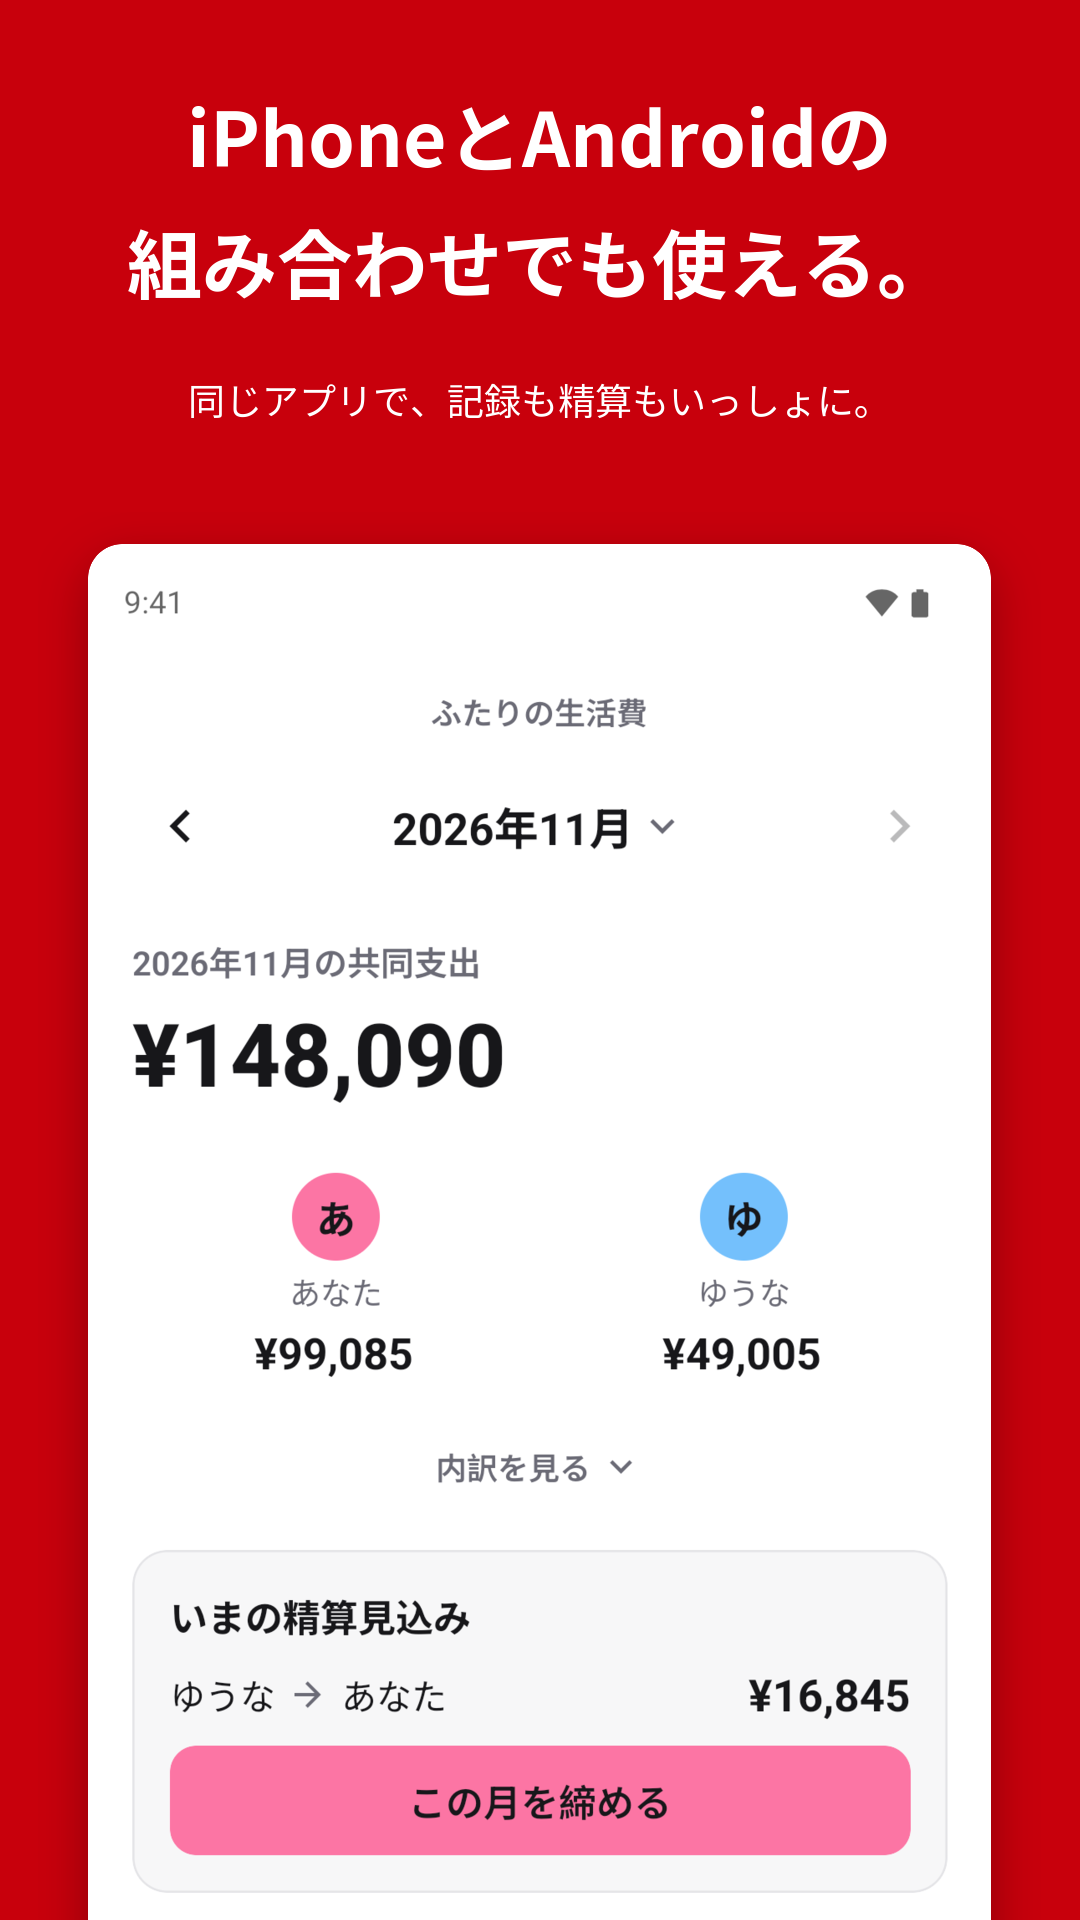
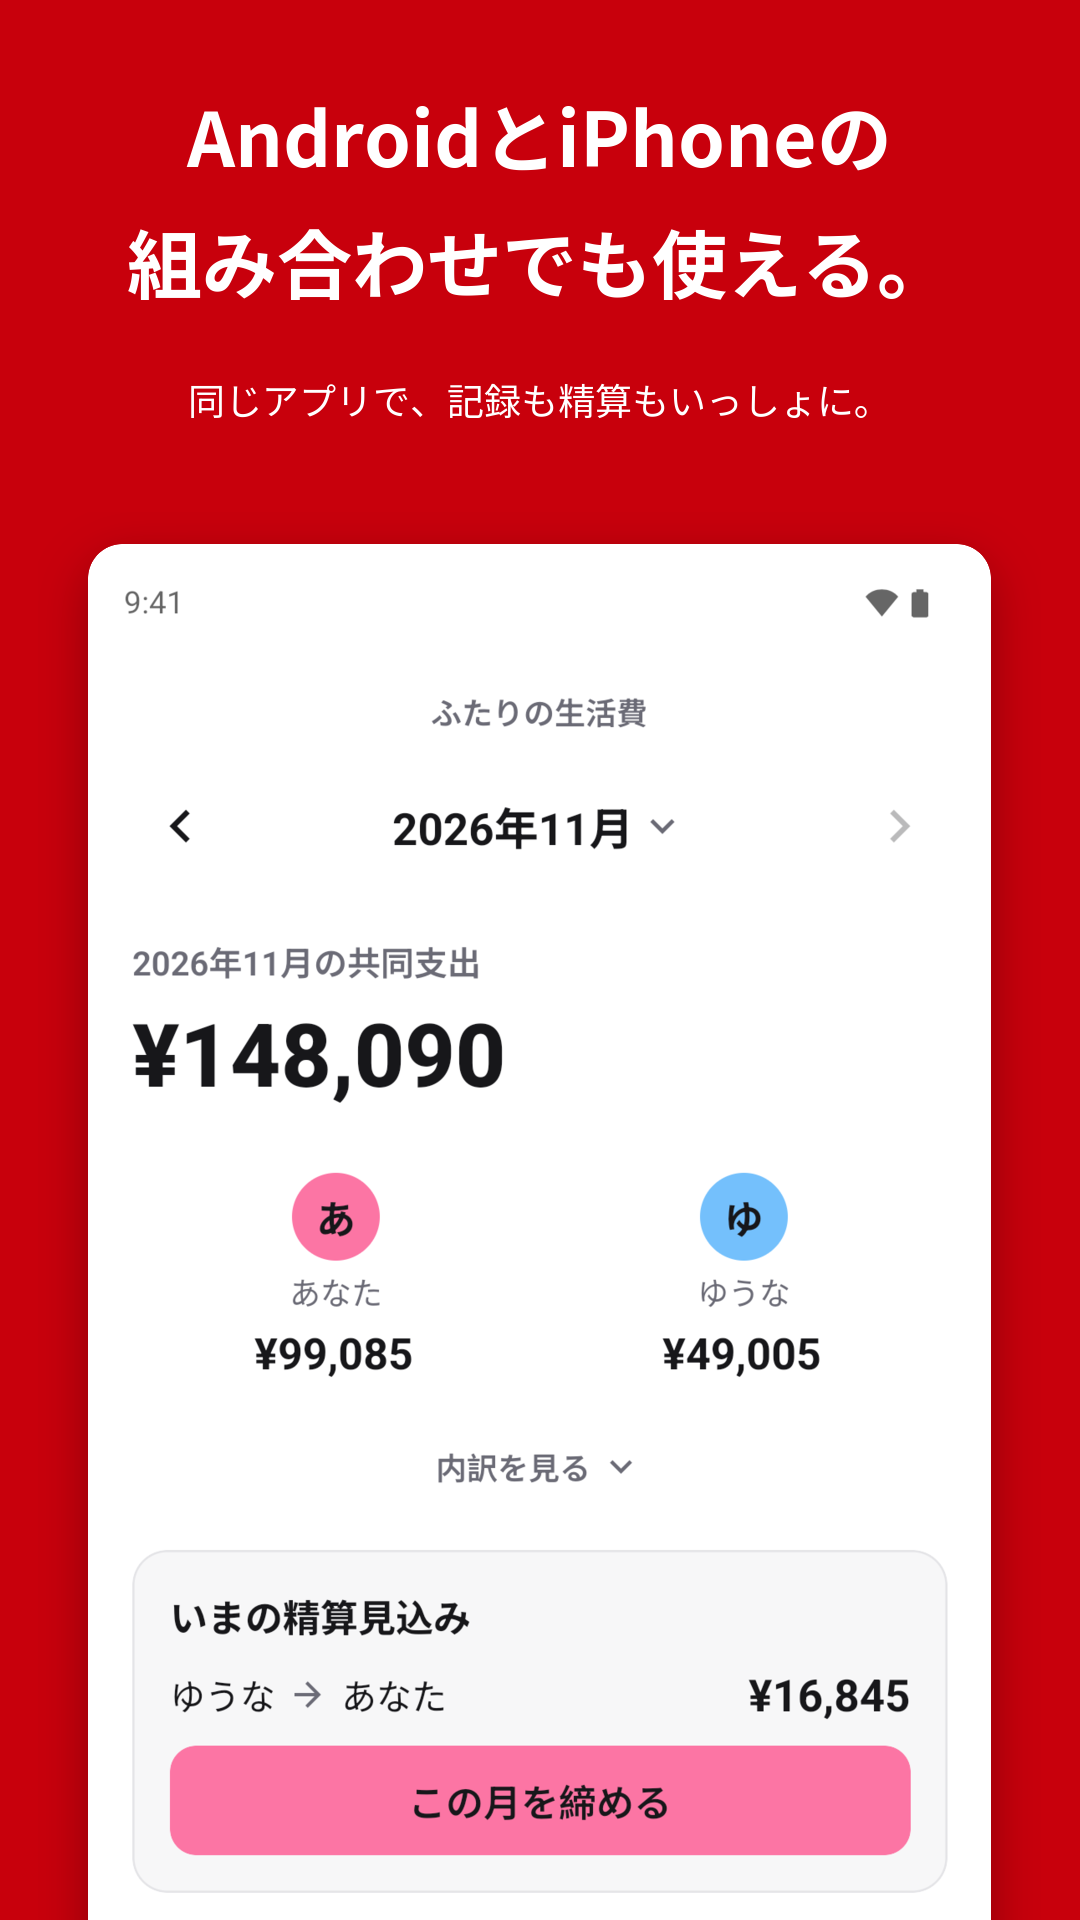
[feat] Play版の1枚目の見出しを、AndroidとiPhoneの順にする（ストア別に見出しを替えられるようにした）

Changed region(s): [[0.1833, 0.0312, 0.7639, 0.0938]]

diff --git a/docs/store-listing.md b/docs/store-listing.md
@@ -201,7 +201,7 @@ The app has no ads, no in-app purchases, and no tracking. Privacy policy: https:
 
 | 番号 | 見出し | 補足 | 画面 |
 |---|---|---|---|
-| 01-home | iPhoneとAndroidの組み合わせでも使える。 | 同じアプリで、記録も精算もいっしょに。 | ホーム（11月） |
+| 01-home | iPhoneとAndroidの組み合わせでも使える。（**Playだけ**「AndroidとiPhoneの組み合わせでも使える。」） | 同じアプリで、記録も精算もいっしょに。 | ホーム（11月） |
 | 02-shares | 家賃は7:3、食費は半分ずつ。 | 費目ごとに、負担割合を決めておけます。 | カテゴリと負担割合 |
 | 03-cap | 外食費は月1万円まで、自分が負担。 | 上限を超えた分は、決めた割合で分担。 | カテゴリの編集（上限額） |
 | 04-expense | 入力は、数タップでかんたん。 | 金額・日付・支払った人・費目を選ぶだけ。 | 支出の登録 |
